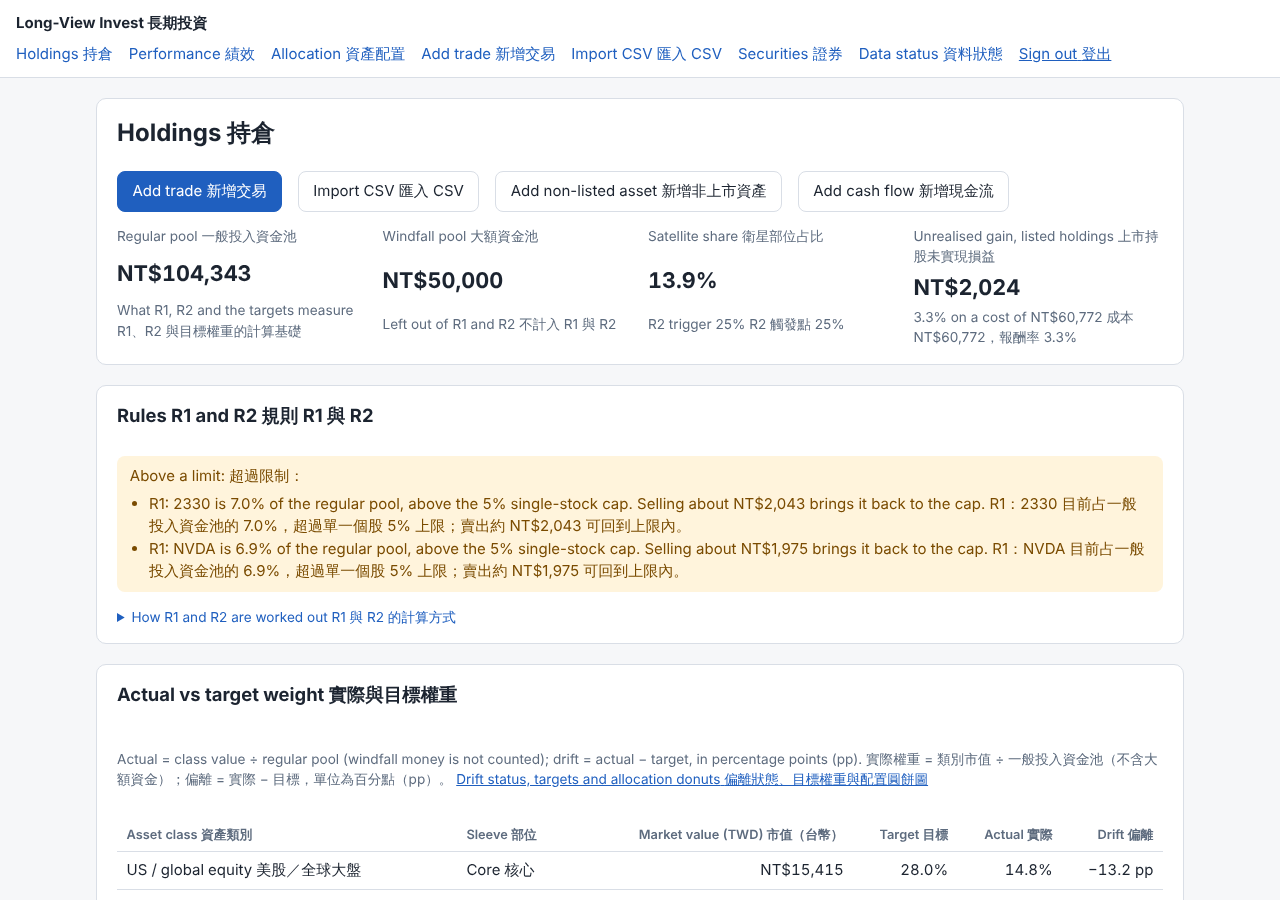
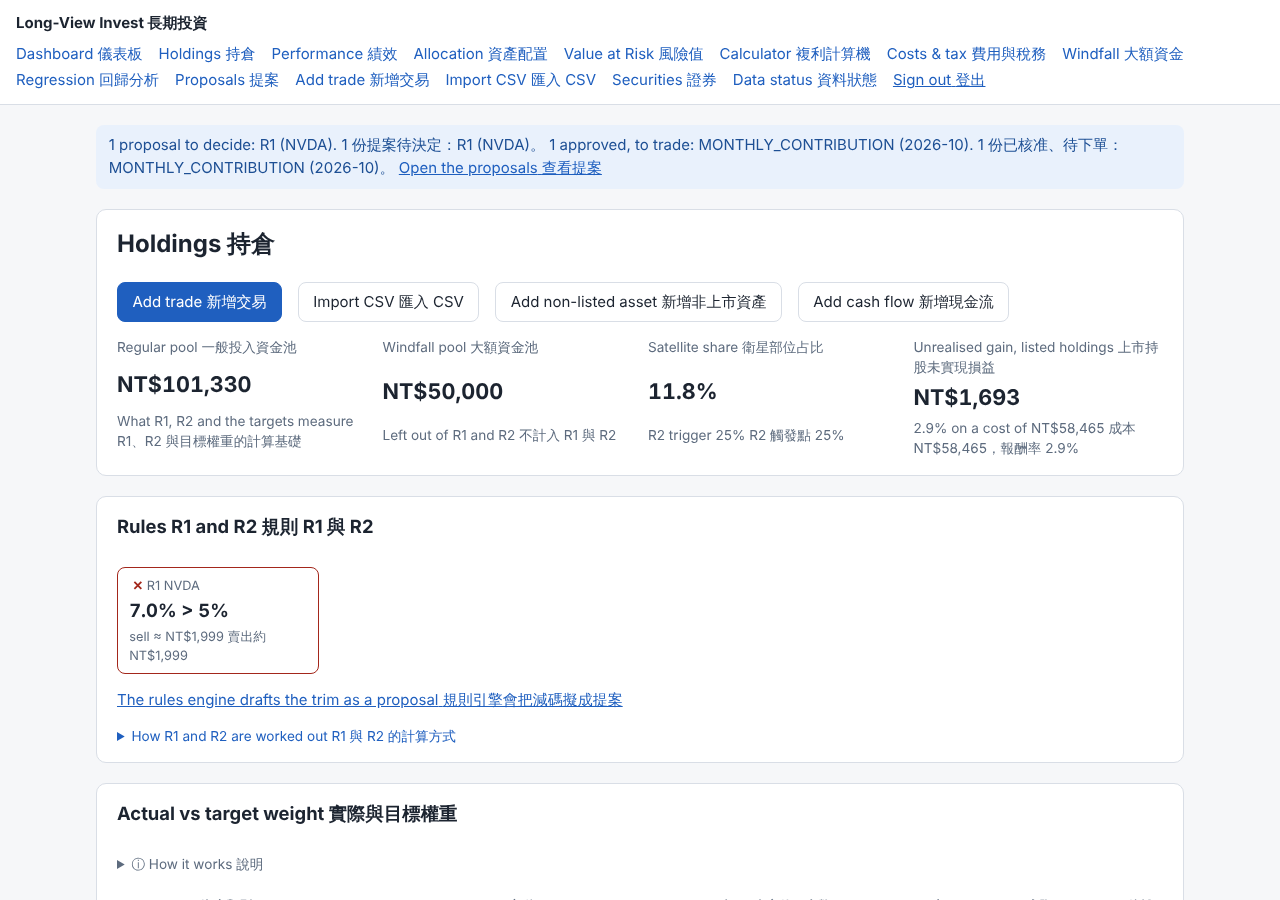
Keep gold's price per gram on Data status; fold only its method
The per-gram figure is a number to read, not an explanation, so it stays
on screen; how it is worked out sits behind ⓘ. README images refreshed
from the run with the live nightly job.

Claude-Session: https://claude.ai/code/session_01DkTLy1AYqUZENnd4Czb7Ub

diff --git a/app/data/page.tsx b/app/data/page.tsx
@@ -271,12 +271,17 @@ function Rates({ rates }: { rates: LatestQuote[] }) {
         </div>
       )}
       {gold && (
-        <Info>
-          <Bi
-            en={`Gold per gram: ${twd(gold.value / GRAMS_PER_TROY_OUNCE)} = TWD per troy ounce ÷ ${GRAMS_PER_TROY_OUNCE} grams. TWD per ounce = the international USD price × the Bank of Taiwan USD rate of the day; the bank's own buy-back price is usually a little lower.`}
-            zh={`每克金價：${twd(gold.value / GRAMS_PER_TROY_OUNCE)} = 每盎司台幣價格 ÷ ${GRAMS_PER_TROY_OUNCE} 克。每盎司台幣價格 = 國際美元金價 × 當日臺灣銀行美元匯率；銀行實際回收價通常略低。`}
-          />
-        </Info>
+        <>
+          <p className="muted small">
+            <Bi en={`Gold per gram: ${twd(gold.value / GRAMS_PER_TROY_OUNCE)}`} zh={`每克金價：${twd(gold.value / GRAMS_PER_TROY_OUNCE)}`} />
+          </p>
+          <Info>
+            <Bi
+              en={`Per gram = TWD per troy ounce ÷ ${GRAMS_PER_TROY_OUNCE} grams. TWD per ounce = the international USD price × the Bank of Taiwan USD rate of the day; the bank's own buy-back price is usually a little lower.`}
+              zh={`每克金價 = 每盎司台幣價格 ÷ ${GRAMS_PER_TROY_OUNCE} 克。每盎司台幣價格 = 國際美元金價 × 當日臺灣銀行美元匯率；銀行實際回收價通常略低。`}
+            />
+          </Info>
+        </>
       )}
     </section>
   );
